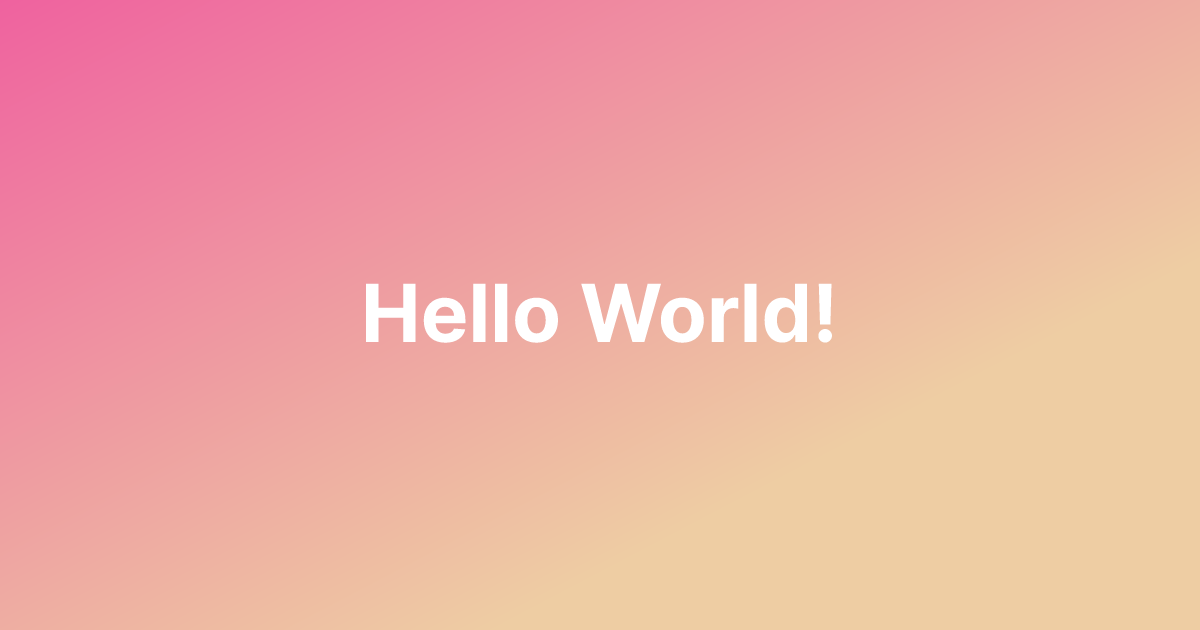
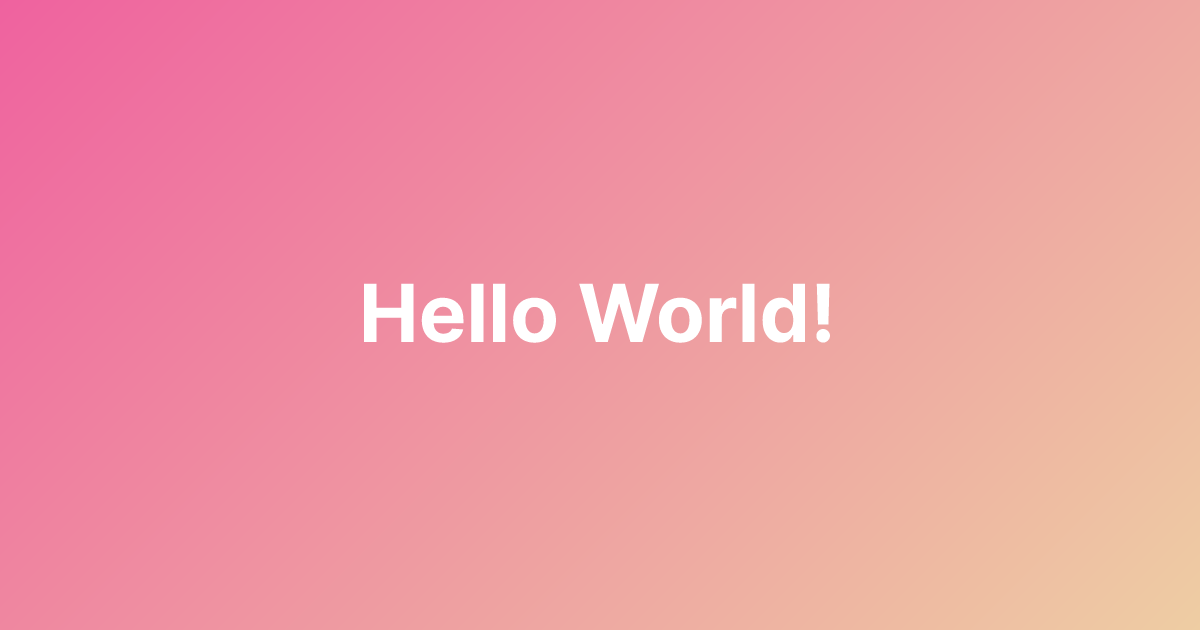
chore: update satori

diff --git a/test/snapshots/renderOgImage.test.js.md b/test/snapshots/renderOgImage.test.js.md
@@ -22,4 +22,4 @@ Generated by [AVA](https://avajs.dev).
 
 > Snapshot 2
 
-    '<svg width="1200" height="630" viewBox="0 0 1200 630" xmlns="http://www.w3.org/2000/svg"><defs><pattern id="satori_pattern_id-0_0" x="0" y="0" width="1" height="1" patternUnits="objectBoundingBox"><linearGradient id="satori_biid-0_0" x1="0" y1="0" x2="0.7071067811865476" y2="0.7071067811865475"><stop offset="0%" stop-color="#ef629f"/><stop offset="100%" stop-color="#eecda3"/></linearGradient><rect x="0" y="0" width="1200" height="630" fill="url(#satori_biid-0_0)"/></pattern></defs><rect x="0" y="0" width="1200" height="630" fill="url(#satori_pattern_id-0_0)"/></svg>'
+    '<svg width="1200" height="630" viewBox="0 0 1200 630" xmlns="http://www.w3.org/2000/svg"><mask id="satori_om-id"><rect x="0" y="0" width="1200" height="630" fill="#fff"/></mask><defs><pattern id="satori_pattern_id-0_0" x="0" y="0" width="1" height="1" patternUnits="objectBoundingBox"><linearGradient id="satori_biid-0_0" x1="0" y1="0" x2="1.1954924056834886" y2="0.6276335129838306"><stop offset="0%" stop-color="#ef629f"/><stop offset="100%" stop-color="#eecda3"/></linearGradient><rect x="0" y="0" width="1200" height="630" fill="url(#satori_biid-0_0)"/></pattern></defs><mask id="satori_om-id-0"><rect x="0" y="0" width="1200" height="630" fill="#fff"/></mask><rect x="0" y="0" width="1200" height="630" fill="url(#satori_pattern_id-0_0)"/></svg>'